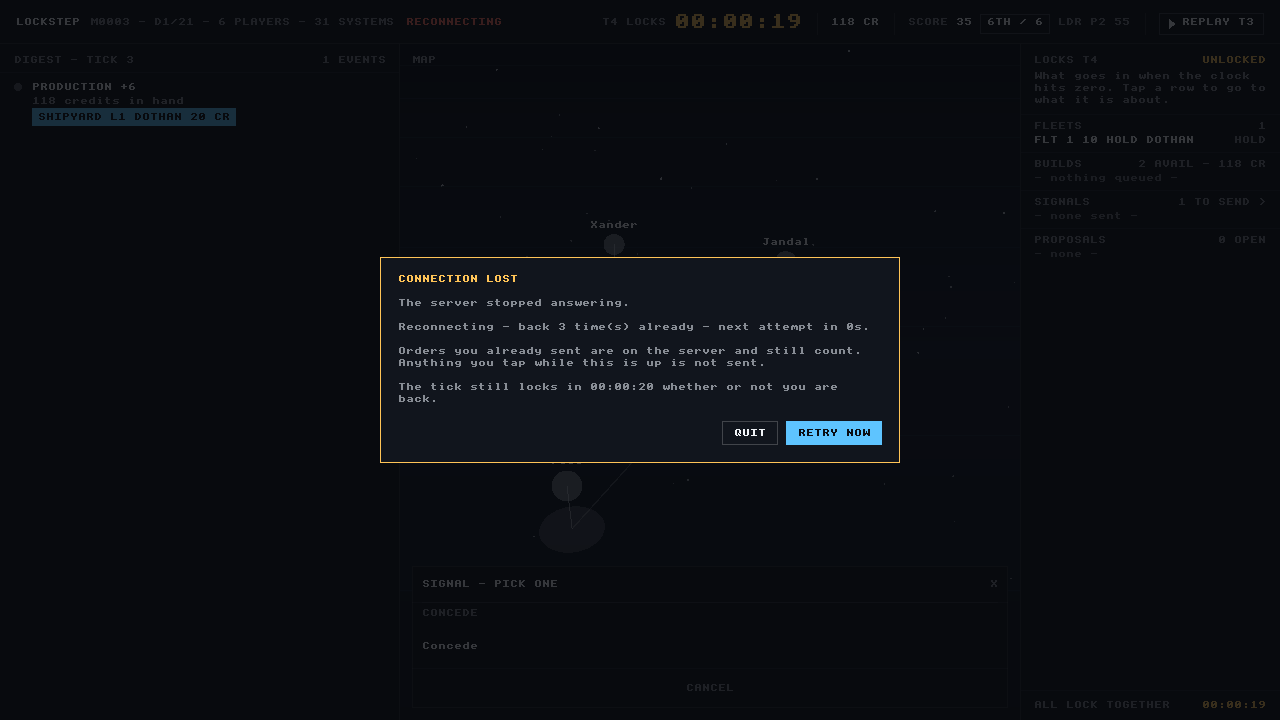
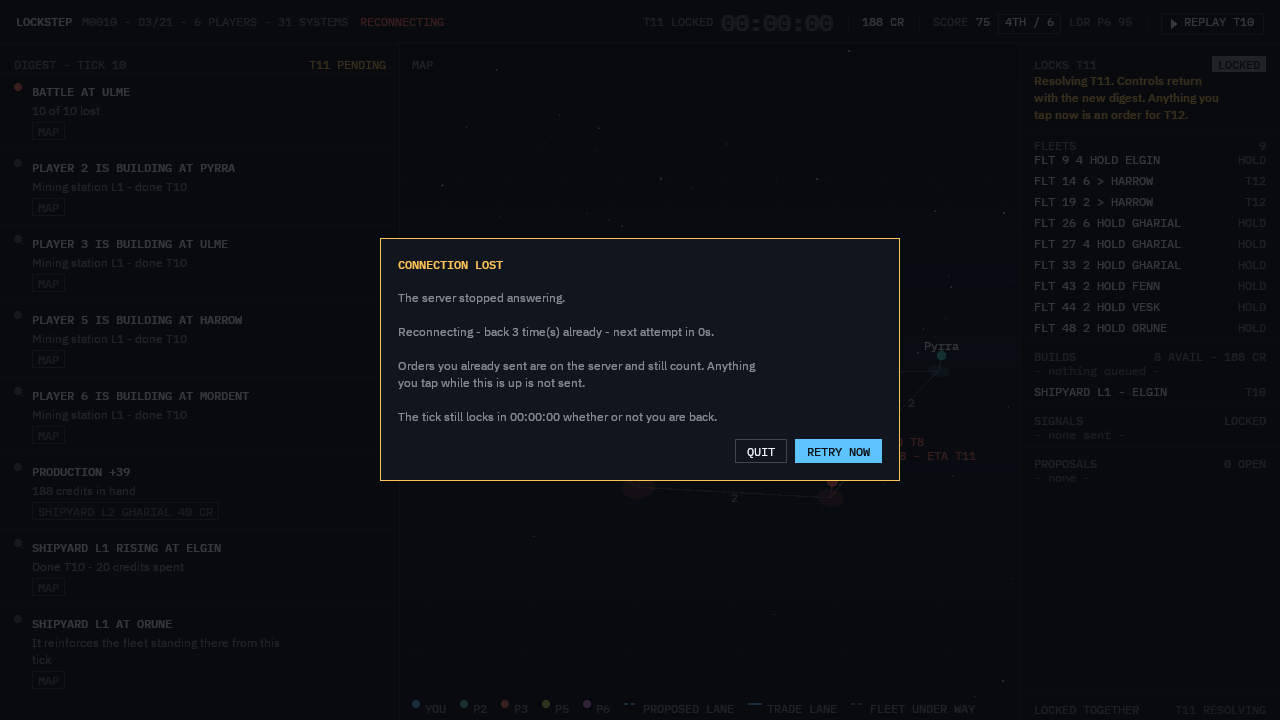
Make the font documentation describe the face that is baked
DESIGN-GUIDELINES said five cuts, a 16px line height, and that stages 5
and 6 were not built. All three have stopped being true. It now records
four cuts with the measurements that dropped the fifth, the 17px line
that nothing hard-codes any more, the gamma correction and why it is
arithmetic, and that hinting was checked rather than assumed.

`Uppercased()`'s comment claimed the font has one case. It had one case;
Plex has two, so the shouting is a choice the design sheet is making
rather than a constraint. ADR-074 left open whether it should go on being
made and this does not answer it -- but FaceRuleTests tells a label from
a sentence by whether it carries a lowercase letter, so it is leaning on
the current answer. The comment and the test both say so now, which is
the difference between a hidden dependency and a documented one.

Five of the twenty-three captures are retaken. The other eighteen each
need the client driven to a state, and the client takes input through the
Windows Pointer API -- only a real SendInput tap on an unlocked desktop
reaches it. The desktop was locked. Design/UI/README.md names which five
are current rather than leaving the whole directory under one warning
that is now half wrong.

The plan gains what stage 6 measured, and loses a claim it was carrying:
stage 7's strings are in MainPage.cpp, not in a Lockstep/MatchFixture.cpp
that does not exist and is not in the index.

Claude-Session: https://claude.ai/code/session_012oz9kqxVL5Nci8JRqcwcxf

diff --git a/LockstepClient/DesignTokens.h b/LockstepClient/DesignTokens.h
@@ -75,8 +75,18 @@ inline constexpr float ORDERS_WIDTH = 260.0F;
   return Neuron::Color{_color.red, _color.green, _color.blue, _alpha};
 }
 
-/// Labels are shouted. The font has one case and the design sheet uses it for every label, so this
-/// is where a name authored in mixed case becomes one.
+/// Labels are shouted, and this is where a name authored in mixed case becomes one.
+///
+/// **"The font has one case" was the reason until 2026-09-13, and it has stopped being true.** The
+/// 8x8 font had no lowercase at all; Plex has both (ADR-074). So the shouting is now a choice the
+/// design sheet is making rather than a constraint the font imposes -- and ADR-074 deliberately
+/// left open whether it should go on being made. **Do not answer that here.** It is a question
+/// about how the screen reads, not about what is baked.
+///
+/// One thing does depend on the current answer: `FaceRuleTests` tells a label from a sentence by
+/// whether it has a lowercase letter in it, which works because every data literal on these screens
+/// goes through here or is typed in capitals. If the labels ever stop shouting, that test needs a
+/// different discriminator, and the test says so too.
 [[nodiscard]] std::string Uppercased(std::string_view _text);
 
 /// A string centred on a pixel column, rather than starting at one.

diff --git a/Tests/LockstepTests/FaceRuleTests.cpp b/Tests/LockstepTests/FaceRuleTests.cpp
@@ -24,6 +24,12 @@
 // capitals. A string drawn in sans with no lowercase letter in it is a label that got the sentence
 // face -- which is the mistake worth catching, and it is catchable.
 //
+// **That discriminator is borrowed, and it can be taken away.** The screen shouts its labels
+// because the 8x8 font had no lowercase; Plex has both, and ADR-074 left open whether the shouting
+// should continue now that nothing forces it. If the answer ever becomes no, this test needs a
+// different way to tell a label from a sentence -- the face each was ASKED for would still be
+// recorded, but the strings would no longer give the rule away.
+//
 // The mono half keeps the full stop and drops the question mark, for a reason of the same kind:
 // `FIRST MATCH?` is a shouted two-word prompt sharing a row with the button it introduces, and it
 // aligns with that button. A question mark ends a sentence and also ends a short prompt; a full

diff --git a/Design/Plans/FONT-01-PlexFaces.md b/Design/Plans/FONT-01-PlexFaces.md
@@ -1,6 +1,6 @@
 # FONT-01 — From one hand-typed 8×8 font to five baked cuts of IBM Plex
 
-**Status:** **In flight. Stages 0 to 5 done 2026-09-13; stage 6 is next.** Written 2026-09-13 against ADR-073 and ADR-074,
+**Status:** **In flight. Stages 0 to 6 done 2026-09-13; stage 7 is next.** Written 2026-09-13 against ADR-073 and ADR-074,
 both Accepted by the owner the same day.
 
 **Stage 0 verification, as run (2026-09-13).** The three checkers pass, Debug|x64 builds, and all
@@ -88,21 +88,22 @@ had ever been looked at on screen.
 
 ## Where to pick this up
 
-**Branch `font/plex-faces`, eleven commits, tree clean, all three checkers green, 517 tests
-passing.** Stages 0 to 5 are built. **Stage 6 is next and nothing blocks it.**
+**Branch `font/plex-faces`, fifteen commits, tree clean, all three checkers green, 517 tests
+passing.** Stages 0 to 6 are built. **Stage 7 is next and nothing blocks it.**
 
-What stage 6 is: re-derive the layout for a 17px line box, then settle from a screenshot the three
-things arithmetic cannot — the gamma on a dark background, hinted against unhinted stems, and
-whether the weights are distinguishable at the final size.
+What stage 7 is: restore the five characters ADR-014 substituted and re-measure the six strings it
+shortened. `TICK 47 LOCKS IN` was cut because the top bar was 63px over the frame at 8px; the mono
+column is 7px now and the bar was re-derived in stage 6, so **measure it, do not assume it**.
 
-**The weight assignment is stage 5's proposal, not a finding, and stage 6 is where it is judged.**
-ADR-074 says three mono cuts exist to separate a card title from a rail row from a countdown, so
-that is literally what was done: `MonoRegular` for rail rows, statuses, chips, counts and button
-labels; `MonoMedium` for the things that name a block — a card title, a sheet title, a dialog
-title, the wordmark; `MonoSemiBold` for the countdown alone. Sans went the same way: `SansRegular`
-for body sentences, `SansMedium` for the two amber blocks that explain why the controls are dead
-right now. **If a difference is invisible at the final size, ADR-074's instruction is to drop the
-cut rather than keep it.**
+**The strings are in `MainPage.cpp`, not in `Lockstep/MatchFixture.cpp`.** This plan named a file
+that does not exist and never did — `std::format("T{} LOCKS", ...)` is at `MainPage.cpp:802` and the
+63px reasoning is in the comment at `MainPage.cpp:813`.
+
+**One thing stage 6 could not finish, and it is not a code problem.** Eighteen of the twenty-three
+captures in `Design/UI/screens` still show the 8×8 font. Each needs the client driven to a state — a
+sheet opened, a row hovered, a replay stepped — and the client takes input through the Windows
+Pointer API, so only a real `SendInput` tap on an **unlocked desktop** reaches it. The desktop was
+locked. The five reachable without a tap were retaken and `Design/UI/README.md` names them.
 
 **The checkable rule is not the one this plan proposed, and the difference matters.** The proposal
 was: no sans string carries a digit, and no mono string ends in `.` or `?`. The first half is
@@ -125,10 +126,53 @@ because the other two check nothing on a screen that draws only one face — and
 dialog is nearly all prose while the map is nearly all labels, so a pooled count would stay
 comfortably non-zero through an entire page being reverted.
 
-**One thing is known-wrong on screen right now and is stage 6's, not a defect to chase:** the
-layout still has the 8×8 font's vertical rhythm, so a 17px line box sits in slots cut for 8px and
-labels crowd their fields. Sentences are now in Plex Sans beside it, which makes the crowding
-easier to see rather than worse.
+**Stage 6, as run (2026-09-13).** Four commits, and every judgment it was asked to make from a
+screenshot was made from one.
+
+**Gamma was the largest single improvement and it is arithmetic, not taste.** The back buffer is
+`R8G8B8A8_UNORM` and deliberately not `_SRGB` (ADR-011), so the blender mixes sRGB-encoded values as
+if they were linear; light on dark, a half-covered pixel reached 50% of the string's brightness
+where it should reach about 73%. The thinner the stem the more of it is partial coverage, so the
+whole face read a weight lighter than the cut it was baked from. Raising coverage to 1/2.2 in
+`TextPS.hlsl` is exactly what blending in linear space would have produced against black. Measured
+on the join screen, mean ink luminance: mono labels 63 → 70, the address field 144 → 172, the sans
+paragraph 96 → 106. **Peak luminance is 243 before and after and the floor is 14 before and after**
+— a fully covered pixel and an uncovered one both stayed put, which is what separates this from
+turning the brightness up.
+
+**The line height was wrong in five files and the renderer disagreed with itself.** `LINE_HEIGHT`
+was 12 — line-height 1.5 on a font whose every glyph was 8px — against a 17px box, so on the digest
+rail a card's detail line was drawn *through* the button under it. Worse, the face reports a line
+height of 16 against an ascent-plus-descent of 17 (a negative line gap, which is legal), and the
+layout used one while the clip box used the other. `LineHeightPixels` now floors at the glyph box,
+and nothing hard-codes a line height.
+
+**Three places had it the other way round.** A chip beside a section header, the buttons under a
+card's last line: there the TEXT position is fixed, because it is shared with something on the same
+row, and the box has to be put around it. Each carried its own hand-tuned offset — each of them the
+number that centred an 8px glyph — so all three crept up into the line above. They go through
+`BandTopForText` now, the inverse of the `CenterTextY` they have to agree with. **An 18px button is
+unchanged and deliberately**: the box grew from 8 to 17, but the ink in a shouted label did not,
+because Plex's cap height at 12px is 8.4px. Sizing the chrome to the box would inflate every control
+on the rail to fit ascender room an uppercase label never uses.
+
+**A mono cut was dropped, on ADR-074's own instruction.** Measured at 12px over `SHIPYARD L1 HOLLIS
+20 CR` as post-gamma coverage: Regular → Medium is **+15.4%** ink, Medium → SemiBold **+9.1%**; solid
+pixels go 10%, 18%, 24%. Side by side at 1× and at 2× the first step is obvious and the second is
+not. The structural argument is stronger than the measurement: SemiBold was set in exactly one
+thing, the lock countdown, which is already the only amber on the bar and already twice the size —
+a third signal on the one string that needed none, and absent everywhere two weights actually meet.
+So four cuts. **The sans pair was measured the same way and kept**: +23.1%, and 4% solid against
+15%. **ADR-074's Decision still says five cuts; amending it is the owner's call.**
+
+**Hinting was checked and stays on, which is what the baker already did.** Unhinted at 12px produces
+*zero* fully covered pixels in either family — every stem lands across two columns at partial
+coverage. Crisp beats faithful on a screen that is mostly columns of small data.
+
+**12px was left alone.** The plan left the final size open between 12, 13 and 14. At 12px capitals
+land within half a pixel of the height they had, which is what keeps the screen recognisable, and
+the digest rail's 254px holds 36 characters where it held 31. Nothing in the captures argued for
+more. It is a re-bake and a screenshot if anyone disagrees.
 
 **To see the main page** you need a server: run `x64\Debug\Lockstep.exe --serve --tick 4 --bots 5`,
 read a token out of `x64\Debug\lockstep-<port>.store` (they are words — `charlie`, `foxtrot`), then
@@ -300,7 +344,7 @@ renderer was asked to draw beside the face it was asked for — captured on the 
 string is still a sentence rather than glyph boxes — and `FaceRuleTests.cpp` asserts over it. See
 "Where you pick this up" for why the assertion is not the one proposed above.
 
-### Stage 6 — Re-derive the layout, then tune what only the eye can judge.
+### Stage 6 — Re-derive the layout, then tune what only the eye can judge. **Done 2026-09-13.**
 
 Every hard-coded width and row height on four screens. The digest rail's "31 characters a line" is
 retired. `Design/UI/DESIGN-GUIDELINES.md` §Font is rewritten; `Design/UI/screens` retaken.
@@ -314,17 +358,26 @@ Three things here are tuning, not arithmetic, and all three will look like bugs 
   faithful. Try both and look.
 - **Weights.** ADR-074 says three mono cuts exist to carry a signal. If Medium and SemiBold are
   indistinguishable at the final size on this background, drop one — a difference nobody can see is
-  not a signal, and five cuts is not a requirement.
+  not a signal, and five cuts is not a requirement. **They were, and it was dropped.**
 
 `Uppercased()`'s comment says "the font has one case", which stops being true here. Fix the comment.
 Whether the screen keeps shouting its labels is a design question ADR-074 deliberately leaves open —
 do not answer it silently while editing the comment.
 
+**Done, and one thing turned out to depend on the answer.** `FaceRuleTests` tells a label from a
+sentence by whether it carries a lowercase letter, which works only because the labels shout. Both
+the comment and the test now say so, so that whoever settles the design question finds out that a
+test is leaning on the current answer before they change it.
+
 ### Stage 7 — The copy ADR-014 could not carry.
 
-Restore the five substituted characters in `Lockstep/MatchFixture.cpp` and re-measure the six
-shortened strings. `TICK 47 LOCKS IN` was shortened because the top bar was 63px over the frame at
-8px; whether it still is depends entirely on Stages 4 and 6, so **measure, do not assume**.
+Restore the five substituted characters and re-measure the six shortened strings. `TICK 47 LOCKS IN`
+was shortened because the top bar was 63px over the frame at 8px; whether it still is depends
+entirely on Stages 4 and 6, so **measure, do not assume**.
+
+**They are in `LockstepClient/MainPage.cpp`.** This plan said `Lockstep/MatchFixture.cpp`, which does
+not exist in the tree and is not in the index — only stale `.obj` files under `x64/` carry the name.
+`std::format("T{} LOCKS", ...)` is at line 802 and the 63px reasoning is in the comment at 813.
 
 The `▶` replay glyph stays geometry. It was a triangle in the reference too, and ADR-014's reason
 for drawing rather than typing it has not changed.
@@ -356,8 +409,9 @@ take it.
 
 ## 4. Open questions this plan leaves to the session
 
-**The final sizes.** Mono at 12, 13 or 14px and Sans beside it, taken from a screenshot of the real
-screen rather than from arithmetic. Stage 6.
+**~~The final sizes.~~ Settled at 12px, stage 6.** Capitals land within half a pixel of the height
+they had, the digest rail holds 36 characters where it held 31, and nothing in the captures argued
+for more. A different answer is a re-bake and a screenshot.
 
 **Where the OFL notice lives.** ADR-073 and ADR-074 both name it and neither answers it. Five cuts
 of a licensed typeface baked into a shipped binary is unambiguously distribution, and R13 leaves

diff --git a/Design/UI/DESIGN-GUIDELINES.md b/Design/UI/DESIGN-GUIDELINES.md
@@ -12,7 +12,8 @@ ships — this document cites it and does not restate what it does not have to.
   and is drawn first; the rails' opaque backgrounds are what confine it (ADR-017).
 - 1px separators `rgba(255,255,255,0.10)` (`Ink::CARD_BORDER`, 26/255).
 - Rail padding 14px. Card padding **10px** (`MainPage::CARD_PADDING`; the handoff said 8). Line
-  height 12px. Everything on whole pixels.
+  height **is not a number here** — it is `FontRenderer::LineHeightPixels`, 17px for the face as
+  baked; see §Font. Everything on whole pixels.
 - Join card: a 480px column centred, the card at y=228, 282 tall; fields 30px high.
 - Seats console: 960px centred at y=180, sized to its contents (owner, 2026-09-12); seat cards
   212×120 in a 3×2 grid; a 256px detail panel on the right; a 44px footer.
@@ -27,39 +28,71 @@ ships — this document cites it and does not restate what it does not have to.
 
 **This section changed on 2026-09-13 and the change is only half landed. Read the state note first.**
 
-Two families, five cuts, baked from TTF into `NeuronClient/Font.h` by `py Build/BakeFont.py`
+Two families, **four** cuts, baked from TTF into `NeuronClient/Font.h` by `py Build/BakeFont.py`
 (ADR-073) and drawn anti-aliased (ADR-074):
 
-- **IBM Plex Mono** — Regular, Medium, SemiBold — the *data* face: every rail row, status, number,
-  chip, button label, section label, card title, top bar, countdown, sheet row and legend.
+- **IBM Plex Mono** — Regular, Medium — the *data* face: every rail row, status, number, chip,
+  button label, section label, card title, top bar, countdown, sheet row and legend.
 - **IBM Plex Sans** — Regular, Medium — the *sentence* face: event-card detail lines, the rail's
   help line, dialog paragraphs, sheet second lines, the join screen's explanatory lines.
 - **The rule.** If the text aligns with something or carries a number, it is mono. If it is a
   sentence with a full stop or a question mark, it is sans.
 
-Both are baked at **12px**. Measured from the files on 2026-09-13: Plex Mono is exactly 0.600em, so
-a mono column is **7px** — one narrower than the 8×8 font it replaced — and cap height is 0.698em,
-which keeps capitals within half a pixel of the height they had. A line box is ascent 13 plus
-descent 4; the baked line height is 16px where the old font's was 12.
+Both are baked at **12px**, **hinted**. Measured from the files on 2026-09-13: Plex Mono is exactly
+0.600em, so a mono column is **7px** — one narrower than the 8×8 font it replaced — and cap height
+is 0.698em, which keeps capitals within half a pixel of the height they had.
 
-**State, 2026-09-13 — what is true and what is not yet.** Stages 0 to 4 of
-[`Design/Plans/FONT-01-PlexFaces.md`](../Plans/FONT-01-PlexFaces.md) are built: the pipeline, the
-renderer, coverage-as-alpha and the bake. **Stage 5 is not**, so *every draw site still asks for
-`MonoRegular`* and nothing on any screen is in Plex Sans yet. **Stage 6 is not either**, so the
-layout still has the 8×8 font's vertical rhythm and a 17px line box sits in slots cut for 8px —
-labels crowd their fields and the spacing is visibly wrong. Do not take the current screens as the
-intended design, and do not take the numbers below as re-derived; they are the ones the 8×8 font
-left behind.
+A line box is ascent 13 plus descent 4 = **17px**, and a line is set at **17px** too. The face
+reports a line height of 16 — it carries a negative line gap — which is a pixel less than the box
+it asks for, so `FontRenderer::LineHeightPixels` floors at the box. Two numbers that disagree about
+how tall a line is, one used by the layout and one by the clipper, is not a disagreement worth
+keeping. **Nothing hard-codes a line height any more**: it was 12 in five files until 2026-09-13,
+which is what drew a card's detail line through the button under it.
+
+**Hinting is on, and it was checked rather than assumed.** Unhinted at 12px produces *zero* fully
+covered pixels in either family — every stem lands across two columns at partial coverage. Crisp
+beats faithful on a screen that is mostly columns of small data. It is a parameter of the bake, so
+revisiting it is a re-bake and a screenshot, not a code change.
+
+**Coverage is gamma-corrected before it becomes alpha.** The back buffer is `R8G8B8A8_UNORM` and
+deliberately not `_SRGB` (ADR-011), so the blender mixes sRGB-encoded values as if they were
+linear, and light-on-dark that lands too dark — a half-covered pixel reaches 50% of the string's
+brightness where it should reach about 73%. `TextPS.hlsl` raises coverage to 1/2.2, which for a
+black background is exactly what blending in linear space would have produced. A fully covered
+pixel and an uncovered one are both untouched by it.
+
+**Why four cuts and not ADR-074's five.** Plex Mono SemiBold was dropped on 2026-09-13 under the
+ADR's own instruction — *"if at the final size two of them are indistinguishable, the answer is to
+drop a cut rather than to keep a difference nobody can see."* At 12px, as post-gamma coverage over
+`SHIPYARD L1 HOLLIS 20 CR`: Regular → Medium is **+15.4%** ink, Medium → SemiBold **+9.1%**; solid
+pixels go 10%, 18%, 24%. The first step is obvious side by side and the second is not. The sans
+pair was measured the same way and **kept** — Regular → Medium is +23.1%, and 4% solid against 15%.
+The structural argument is the stronger one: SemiBold was set in exactly one thing, the lock
+countdown, which is already the only amber on the bar and already twice the size. **ADR-074's
+Decision still says five; amending it is the owner's call.**
+
+**State, 2026-09-13.** Stages 0 to 6 of
+[`Design/Plans/FONT-01-PlexFaces.md`](../Plans/FONT-01-PlexFaces.md) are built. Stage 7 — restoring
+the five characters ADR-014 substituted and re-measuring the six strings it shortened — is not.
 
 - 2× (`FontRenderer::COUNTDOWN_SCALE`) **only** for the lock countdown on the top bar and the
   `LOCKSTEP` title on the join and seats screens — the one thing read first on each. It is a whole
-  pixel-block enlargement of the 12px face, which is the wrong tool now that a weight is available:
-  ADR-074 leaves open whether the countdown should become a larger baked cut instead. The handoff's
-  other 2× use, the share-card headline, has no screen to be on.
-- Emphasis is colour, case and now **weight**. Labels and headers are uppercase (`Uppercased()`),
-  sentences mixed case — **`Uppercased()`'s comment that "the font has one case" is no longer true**,
-  and whether the screen keeps shouting its labels is a design question ADR-074 deliberately left
-  open rather than answered. No italics, no letter-spacing.
+  pixel-block enlargement of the 12px face, which is still the wrong tool: ADR-074 leaves open
+  whether the countdown should become a larger baked cut instead, and that is now the *only* way
+  left to make it heavier, since the weight above it was dropped. The handoff's other 2× use, the
+  share-card headline, has no screen to be on.
+- Emphasis is colour, case and now **weight** — one step of it, Regular against Medium. Labels and
+  headers are uppercase (`Uppercased()`), sentences mixed case. **The shouting is no longer forced
+  by the font**: the 8×8 face had no lowercase and Plex has both, so it is a choice the sheet is
+  making, and ADR-074 left open whether it should go on being made. One thing depends on the
+  current answer — `FaceRuleTests` tells a label from a sentence by whether it carries a lowercase
+  letter — so changing it means giving that test a different discriminator. No italics, no
+  letter-spacing.
+- **Chrome that sits around already-placed text goes through `BandTopForText`**, the inverse of
+  `CenterTextY`. Three places had their own hand-tuned offset — a chip beside a section header, the
+  buttons under a card's last line — each of them the number that centred an 8px glyph, and each
+  wrong in the same direction once a box was 17px. A button is still **18px**: the box grew, the ink
+  in a shouted label did not.
 - Detail text wraps by word to a PIXEL WIDTH (`FontRenderer::WrapToWidth`). It wrapped to a
   character count until 2026-09-13; there is no character count any more, because there is no one
   advance for a proportional face to have.

diff --git a/Design/UI/README.md b/Design/UI/README.md
@@ -7,12 +7,17 @@ deliberately not, and this directory is now the **design record for the client**
 code in `LockstepClient/` and `Lockstep/`. Every status below is as of **2026-09-13** and was read
 from the tree, not from the plan.
 
-> **The captures in `screens/` are STALE as of 2026-09-13.** They show the 8×8 bitmap font; the client
-> now draws IBM Plex, anti-aliased (ADR-074). They are deliberately not retaken yet: FONT-01 stage 5
-> has not assigned Plex Sans to anything and stage 6 has not re-derived the layout, so a capture taken
-> today would record a half-finished screen as though it were the design. **Retake them at the end of
-> stage 6** — `Design/Plans/FONT-01-PlexFaces.md` says so too. Until then, read them for layout and
-> content, not for typography.
+> **`screens/` is PART RETAKEN as of 2026-09-13, and the split is not arbitrary.** FONT-01 stages 5
+> and 6 are done — Plex Sans is assigned, the layout is re-derived, coverage is gamma-corrected — so
+> these five are current and show what the client actually draws:
+> `01-main-page`, `03-join`, `04-connection-lost`, `05-connecting`, `05-refused-unknown-token`.
+>
+> **The other eighteen still show the 8×8 bitmap font.** Every one of them needs the client driven to
+> a state — a sheet opened, a row hovered, a replay stepped — and the client takes input through the
+> Windows Pointer API, so only a real `SendInput` tap on an **unlocked desktop** reaches it
+> (`Build/TapRehearsal.ps1` says why). The desktop was locked when stage 6 ran. Retaking them needs a
+> session at the machine, not more code. Until then, read those eighteen for layout and content, not
+> for typography.
 
 ## Contents
 - `SCREENS.md` — per screen: what is built, what the design asked for that is not, and where the code is.
